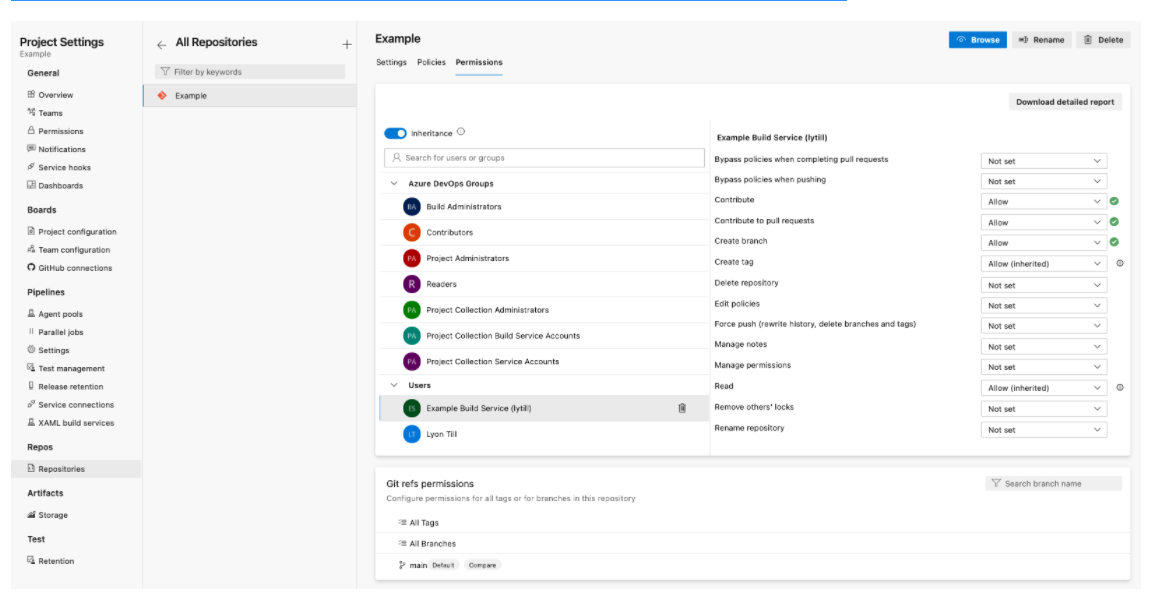
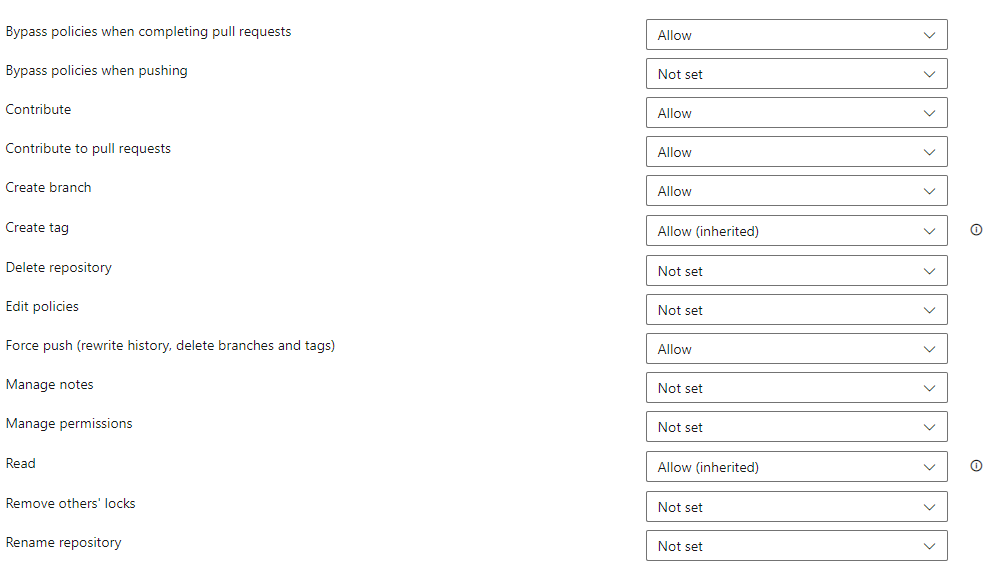
updated documentation for build service permission (#553)

diff --git a/docs/wiki/Azure-Pipelines.md b/docs/wiki/Azure-Pipelines.md
@@ -143,10 +143,11 @@ $Body = @{
     accessControlEntries = @(
         @{
             # Contribute: 4
+            # Force push: 8
             # CreateBranch: 16
             # Contribute to pull requests: 16384
             # Bypass policies when completing pull requests: 32768
-            allow      = 4 + 16 + 16384 + 32768
+            allow      = 4 + 8 + 16 + 16384 + 32768
             deny       = 0
             descriptor = $Subject.value.descriptor
         }
@@ -250,6 +251,7 @@ ARM_CLIENT_SECRET
   - **Contribute**
   - **Contribute to pull requests**
   - **Create branch**
+  - **Force push**
 
   If you are using branch policies, you also want to give the build service right to
   **Bypass policies when completing pull requests** to be able to merge automated pull requests.
